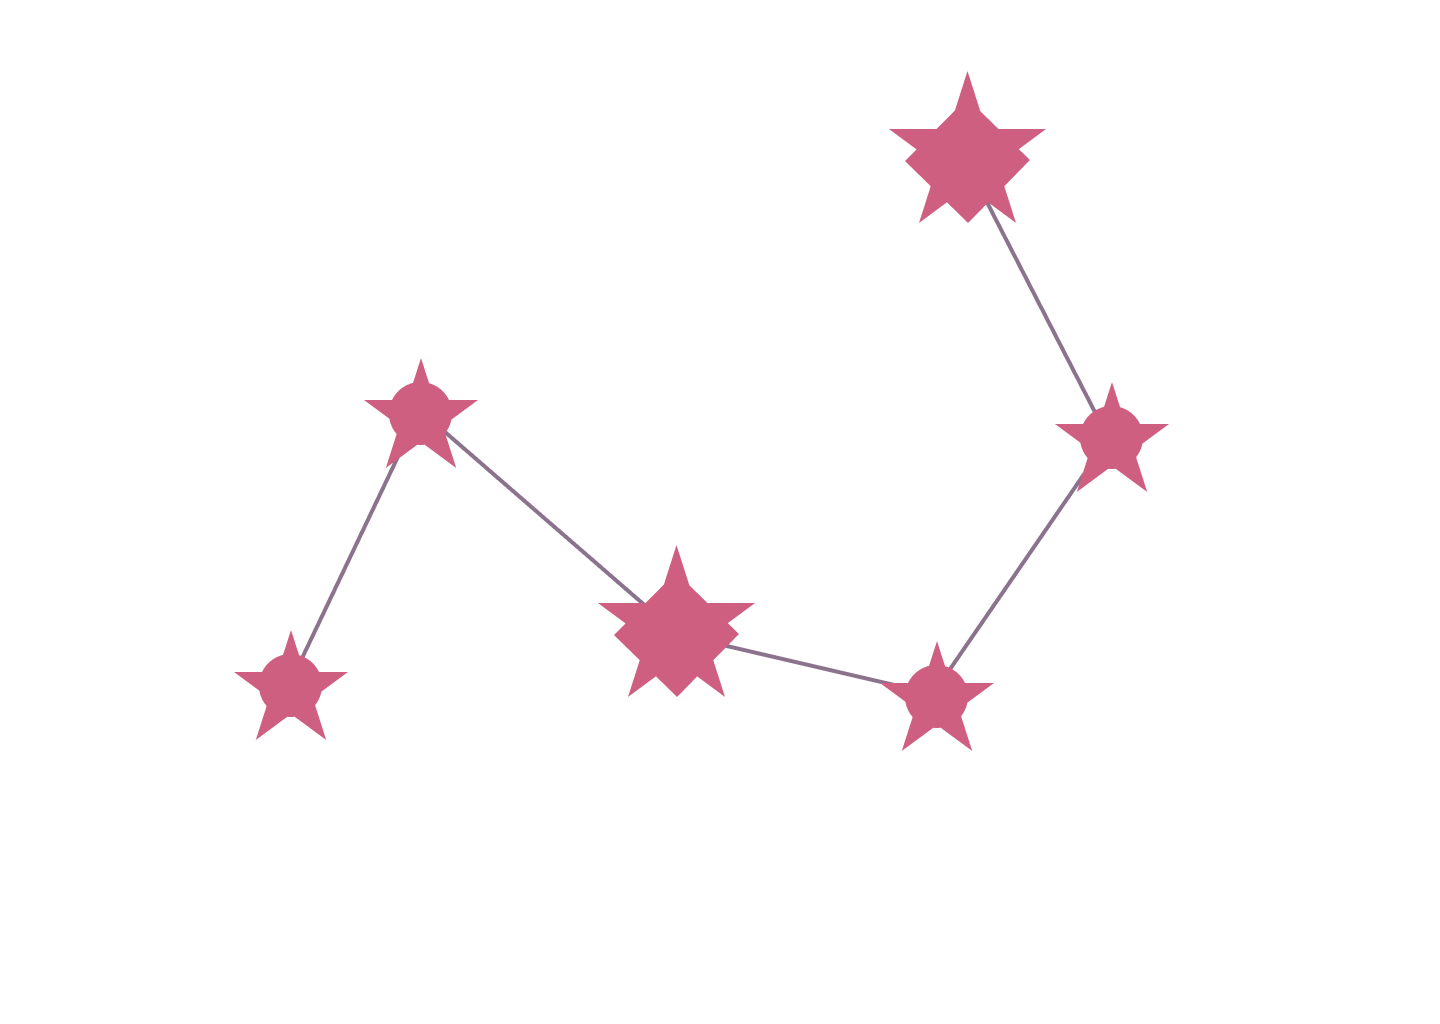
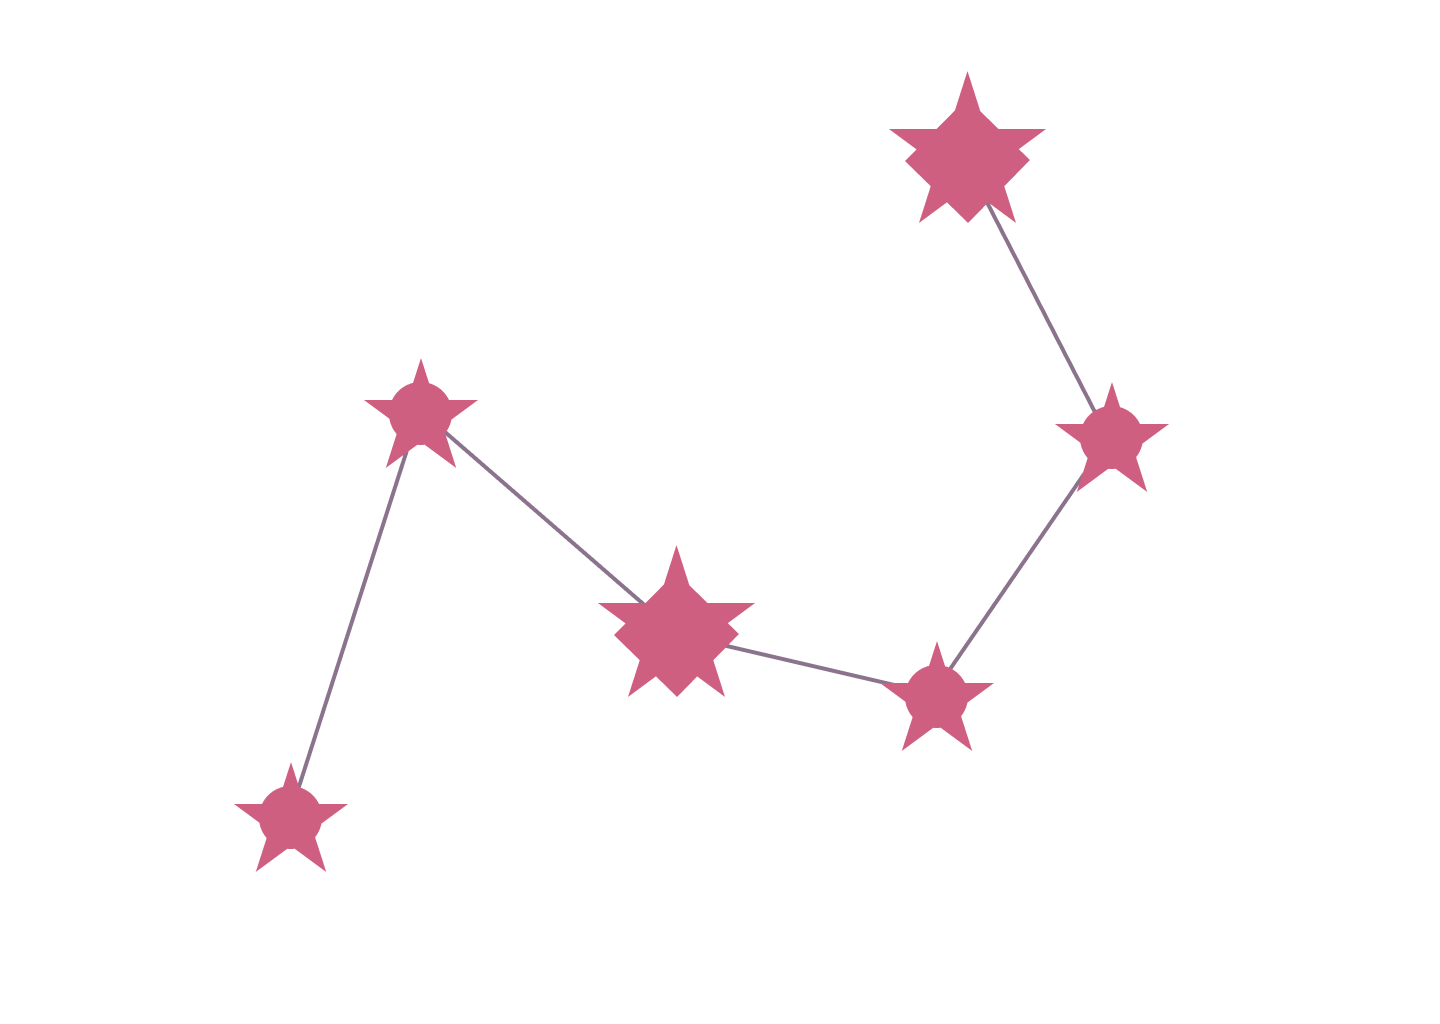
level buttons fix

Changed region(s): [[0.1562, 0.4375, 0.2812, 0.8438]]

diff --git a/src/Autopsy/Scenes/MainMenu.ts b/src/Autopsy/Scenes/MainMenu.ts
@@ -141,40 +141,46 @@ export default class MainMenu extends Scene {
     const paddingSize = new Vec2(15, 15);
 
     const levelOne = this.newButton(
-      new Vec2(255, 540),
+      new Vec2(255, 645),
       "1",
       fontSize,
       Layers.Levels,
+      true,
     );
     const levelTwo = this.newButton(
       new Vec2(360, 320),
       "2",
       fontSize,
       Layers.Levels,
+      true,
     );
     const levelThree = this.newButton(
       new Vec2(565, 495),
       "3",
       fontSize,
       Layers.Levels,
+      true,
     );
     const levelFour = this.newButton(
       new Vec2(773, 550),
       "4",
       fontSize,
       Layers.Levels,
+      true,
     );
     const levelFive = this.newButton(
       new Vec2(914, 342),
       "5",
       fontSize,
       Layers.Levels,
+      true,
     );
     const levelSix = this.newButton(
       new Vec2(798, 118),
       "6",
       fontSize,
       Layers.Levels,
+      true,
     );
 
     levelOne.font = "Mister Pixel";
@@ -184,7 +190,7 @@ export default class MainMenu extends Scene {
     levelOne.onClick = () => {
       this.sceneManager.changeToScene(Level1, {}, levelPhysics);
     };
-
+ 
     levelTwo.font = "Mister Pixel";
     levelTwo.setPadding(paddingSize);
     levelTwo.size = buttonSize;
@@ -310,6 +316,7 @@ export default class MainMenu extends Scene {
     text: string,
     fontSize: number,
     layer: Layers,
+    levelButton: Boolean = false,
   ): Button {
     const button = <Button>this.add.uiElement(UIElementType.BUTTON, layer, {
       position: position,
@@ -326,12 +333,21 @@ export default class MainMenu extends Scene {
 
     const transWhite = new Color(255, 255, 255, 0.1);
     const invisibleWhite = new Color(255, 255, 255, 0);
-    button.onEnter = () => {
-      button.backgroundColor = transWhite;
-    };
-    button.onLeave = () => {
-      button.backgroundColor = invisibleWhite;
-    };
+    if (!levelButton) {
+      button.onEnter = () => {
+        button.backgroundColor = transWhite;
+      };
+      button.onLeave = () => {
+        button.backgroundColor = invisibleWhite;
+      };
+    } else {
+      button.onEnter = () => {
+        button.textColor = new Color(246, 242, 252);
+      };
+      button.onLeave = () => {
+        button.textColor = this.textColor;
+      };
+    }
 
     return button;
   }

diff --git a/src/Autopsy/Scenes/Levels/Level3.ts b/src/Autopsy/Scenes/Levels/Level3.ts
@@ -3,6 +3,8 @@ import Vec2 from "../../../Wolfie2D/DataTypes/Vec2";
 import Level4 from "./Level4";
 
 export default class Level3 extends GameLevel {
+  triggeredBoss: Boolean;
+
   loadScene() {
     super.loadScene();
     this.load.tilemap("tilemap", "assets/tilemaps/Level3/Level3.json");
@@ -16,6 +18,20 @@ export default class Level3 extends GameLevel {
     this.add.tilemap("tilemap", new Vec2(1, 1));
     this.viewport.setBounds(0, 0, 2048, 1280);
 
+    this.triggeredBoss = false;
     this.nextLevel = Level4;
+  }
+
+  update(deltaT: number): void {
+    super.update(deltaT);
+    if (!this.triggeredBoss && this.player.node.position.x > 672) {
+      this.triggeredBoss = true;
+      this.spawnBoss();
+    }
+
+  }
+
+  spawnBoss() {
+
   }
 }
